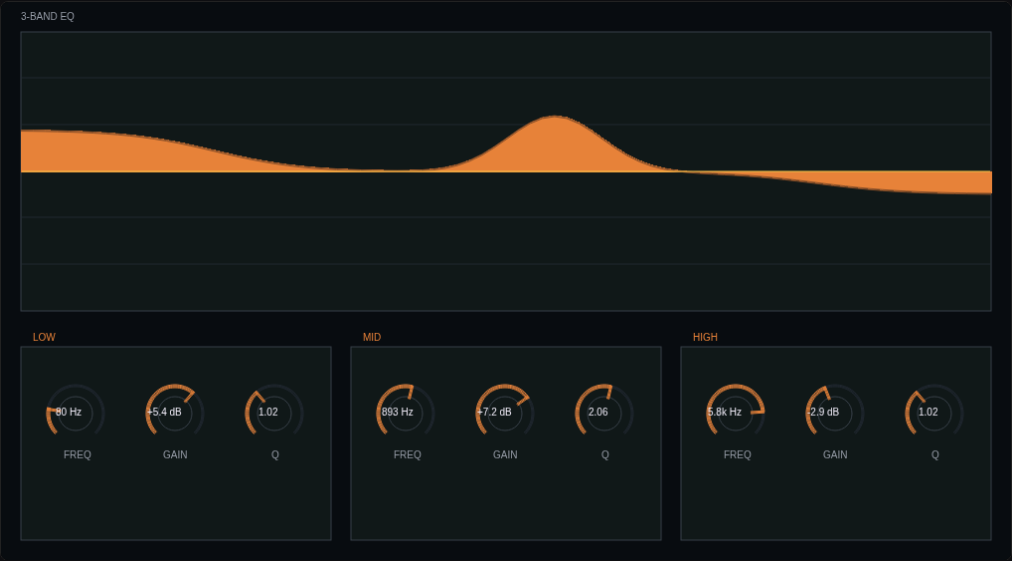
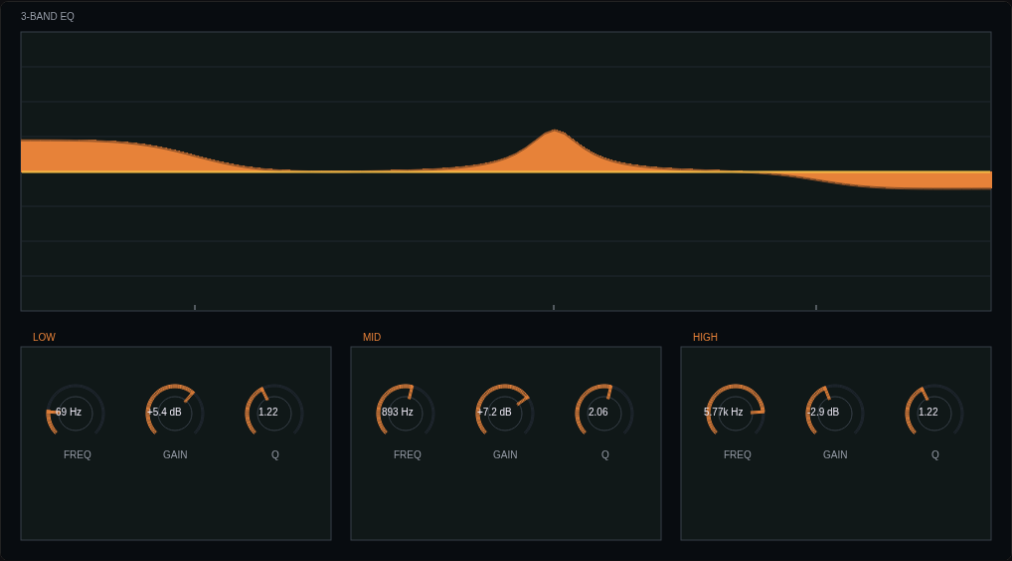
eq-3band: real RBJ biquad math + band-order protection + local-first workflow
Widget:
- peak/lowShelf/highShelf coefficients from Audio EQ Cookbook
- analytical |H(e^jw)|^2 evaluated at 100 log-spaced points
- Q now controls bell bandwidth and shelf slope correctly
- LOW < MID < HIGH centre-freq protection with half-octave margin
- 0 dB reference line in WARNING amber + per-band centre ticks

Local-first workflow:
- scripts/screenshot.mjs intercepts raw.github requests and serves
  local files (disable with --remote for parity check)
- docs/emulator.js uses /lib and /widgets via symlinks when running
  on localhost, falls back to raw.github in production
- .gitignore excludes the new docs/lib and docs/widgets symlinks

diff --git a/docs/emulator/emulator.js b/docs/emulator/emulator.js
@@ -6,7 +6,13 @@ document.addEventListener("DOMContentLoaded", () => {
   console.log("[emulator] DOMContentLoaded. fengari =", typeof window.fengari);
 });
 
-const RAW_BASE = "https://raw.githubusercontent.com/roomi-fields/electraone-widgets/main";
+// Serve from the local working copy when running on localhost (requires
+// docs/lib and docs/widgets symlinks to ../lib and ../widgets). Online,
+// fetch from GitHub raw so users always hit main.
+const IS_LOCAL = ["localhost", "127.0.0.1"].includes(location.hostname);
+const RAW_BASE = IS_LOCAL
+  ? ".."
+  : "https://raw.githubusercontent.com/roomi-fields/electraone-widgets/main";
 
 const CONST = {
   // Electra convention: bounds is a 1-based Lua array {1:x, 2:y, 3:w, 4:h}
